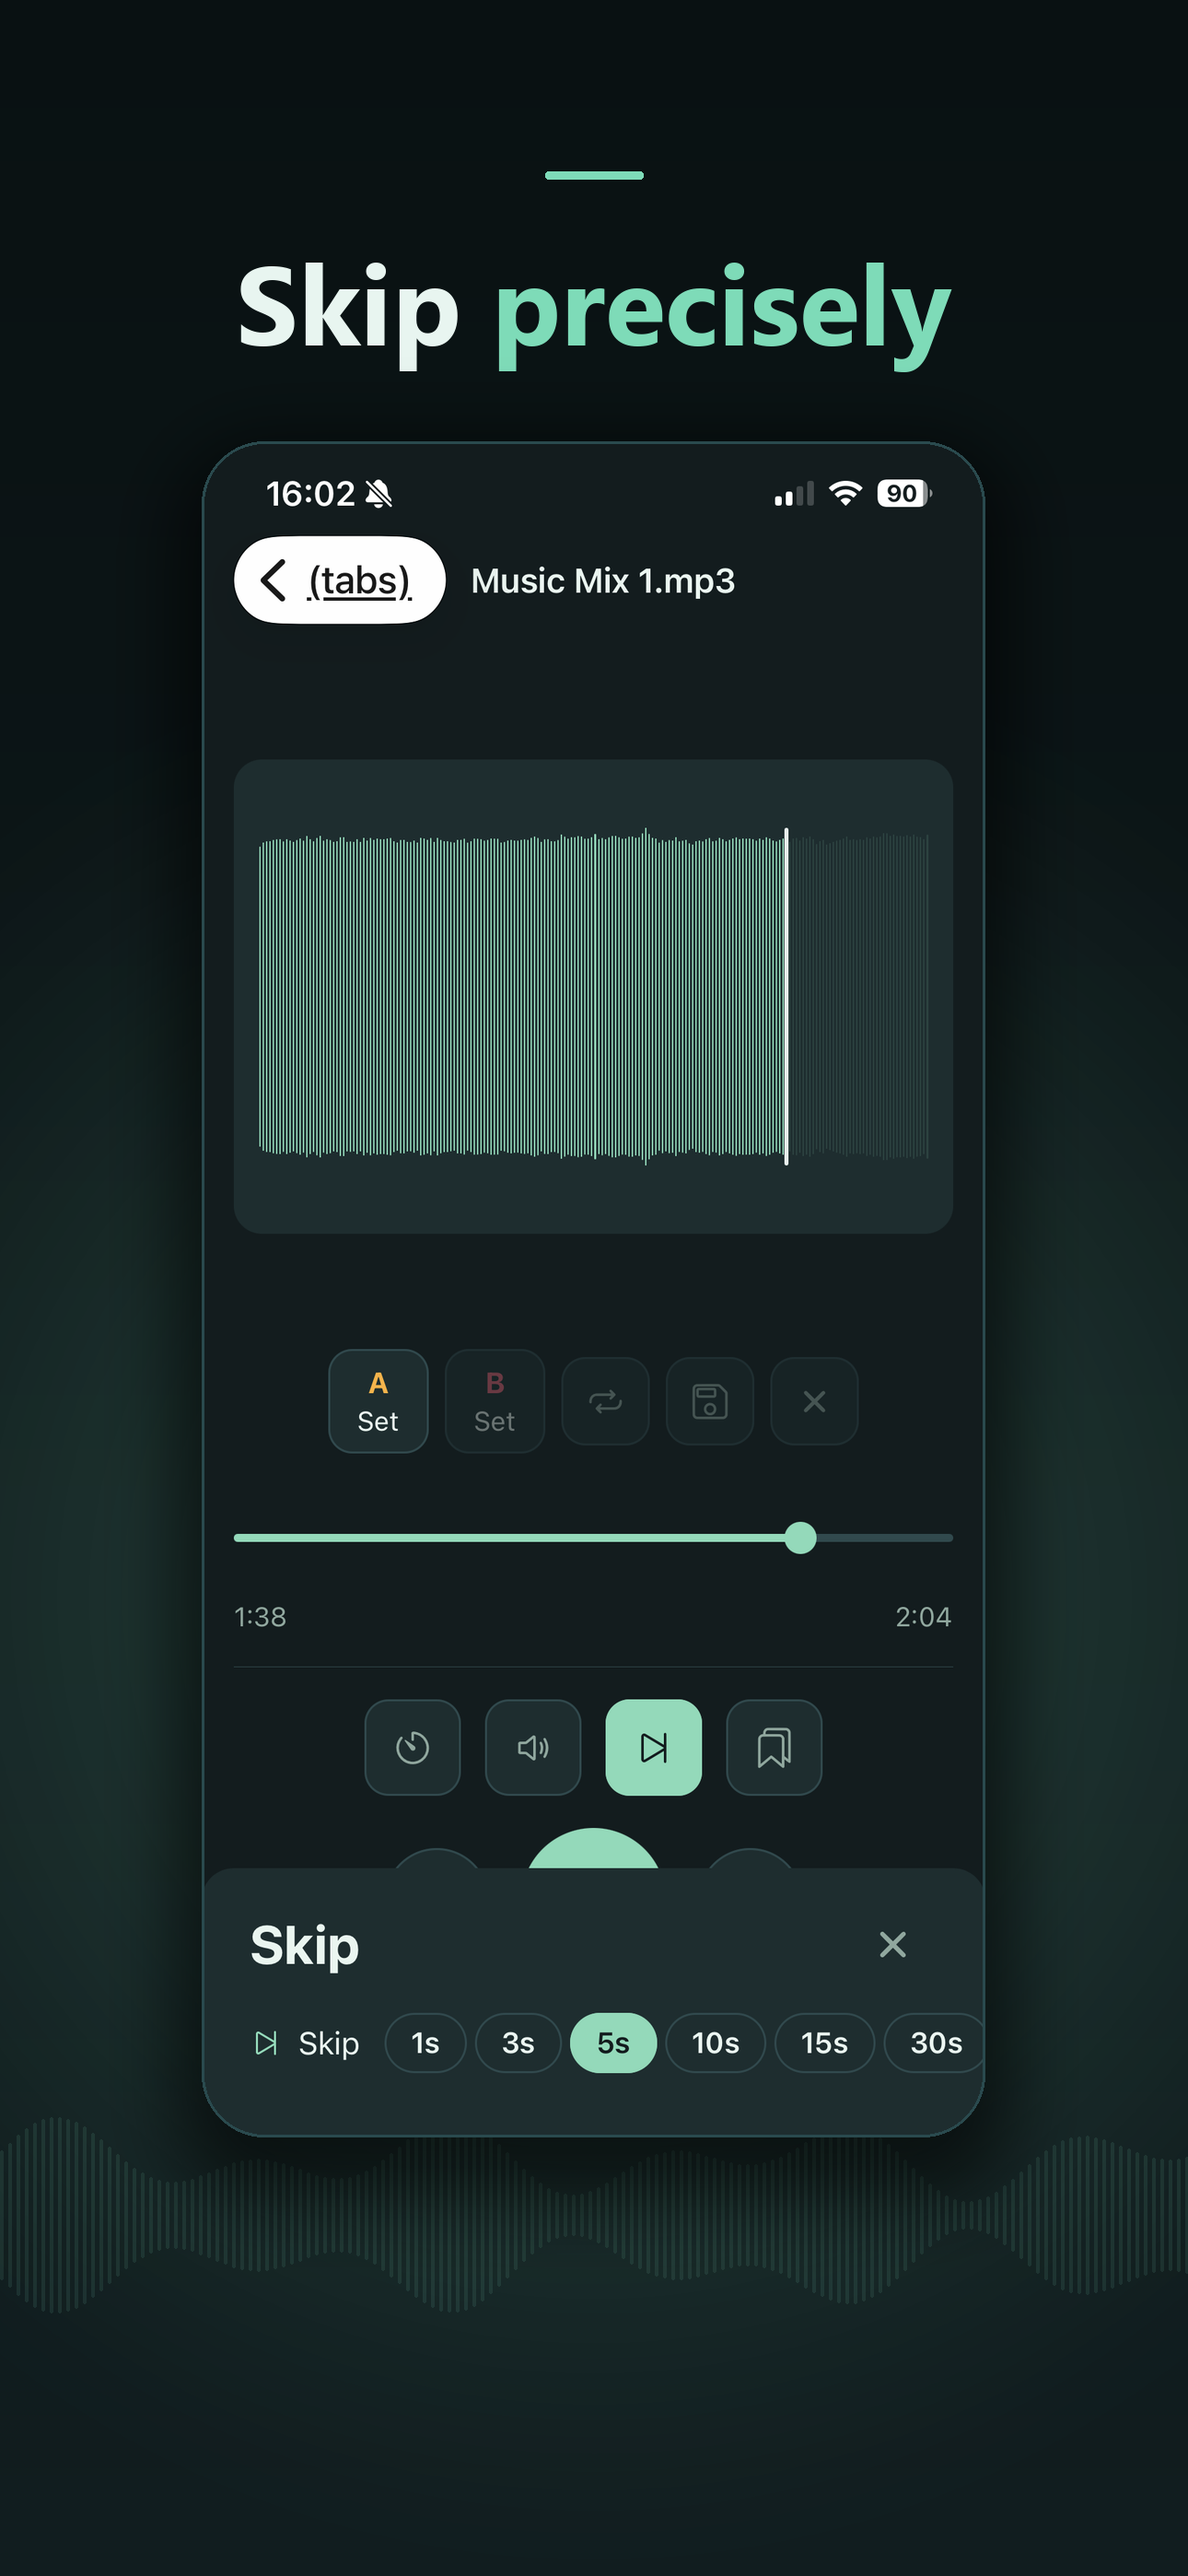
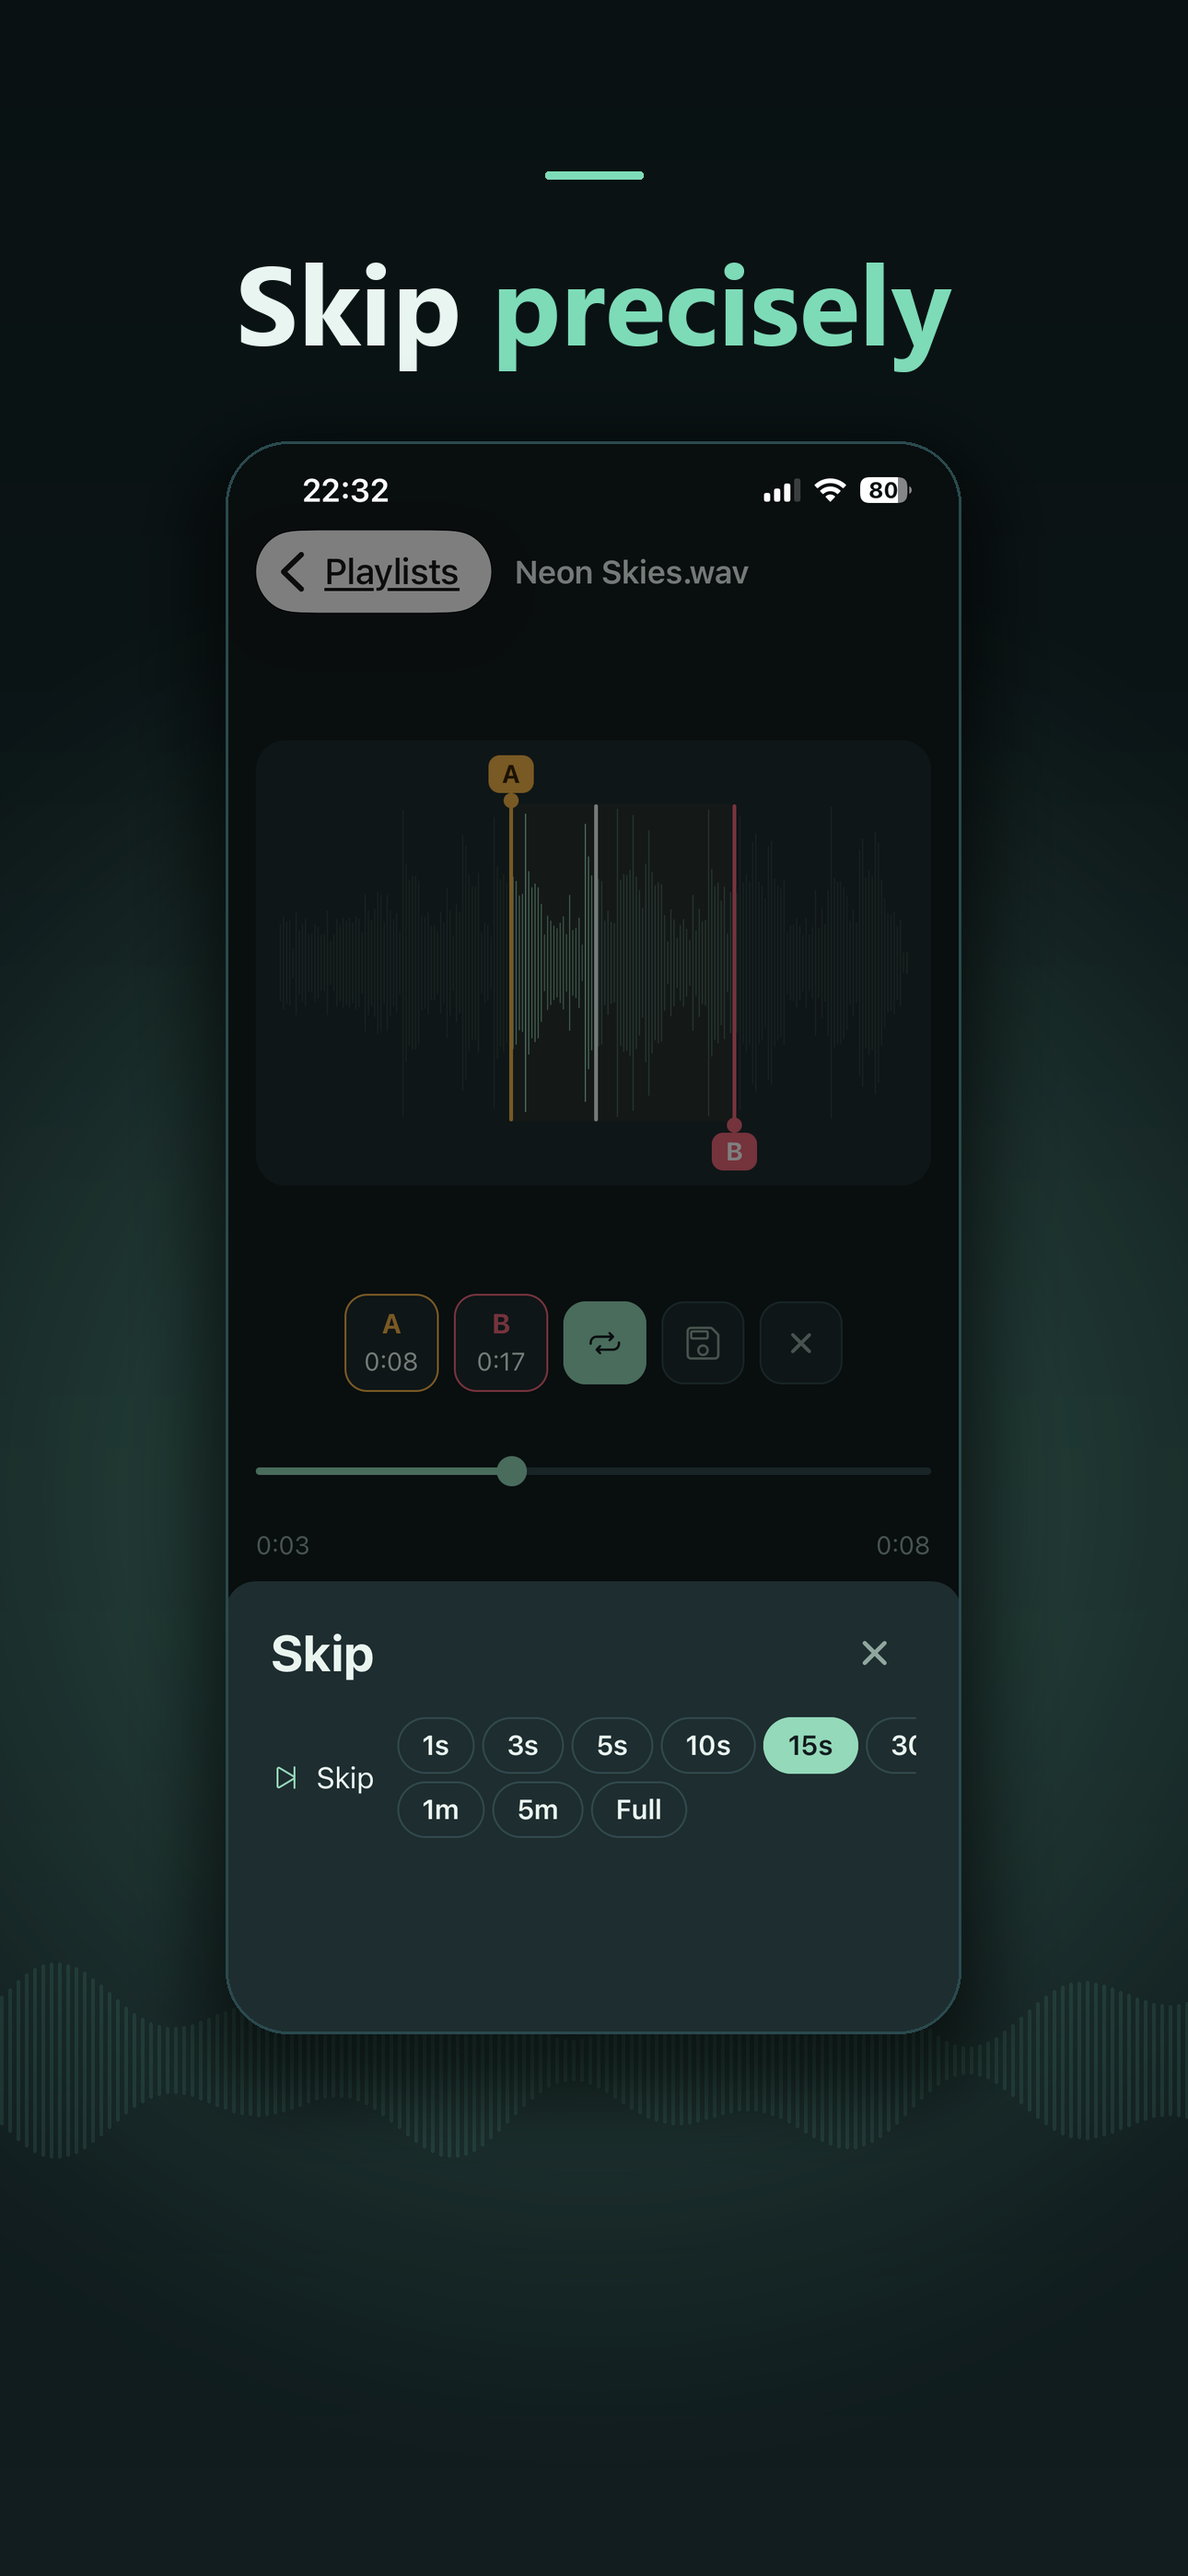
feat(store): refresh screenshots/creative, reconcile iOS app name
- Regenerate App Store + Play screenshots from new captures covering
  segments, skip, count-in, and favourites (was 5 slides, now 6)
- Add Play feature graphic and general marketing banners composed with
  the real logo mark and a device-framed screenshot
- Set iOS app name to "Refrain: Audio Looper" to match App Store
  Connect (was "Refrain"); reconcile the same in QUESTIONNAIRES.md and
  PUBLISHING.md, and add the SKU field
- Drop "looper" from iOS keywords (redundant with the new app name)
  in favour of "metronome"

diff --git a/fastlane/creative/render.py b/fastlane/creative/render.py
@@ -44,6 +44,7 @@ MARKER_B = (255, 93, 119)  # #ff5d77
 HERE = os.path.dirname(os.path.abspath(__file__))
 REPO = os.path.abspath(os.path.join(HERE, "..", ".."))
 RAW_DIR = os.path.join(REPO, "assets", "appstore_images")
+ICON_PATH = os.path.join(REPO, "assets", "logo", "png", "icon-transparent.png")
 
 # Raw screenshots mapped to a stable ordering + captions.
 # order is the store slide order (slide 1 is the most-seen image).
@@ -51,29 +52,34 @@ RAW_DIR = os.path.join(REPO, "assets", "appstore_images")
 # kept short so the type stays large and legible at thumbnail size.
 SLIDES = [
     {
-        "id": "1C911F29-884F-484D-A804-598AE9FB9791",
+        "id": "IMG_2203",
         "cap_lead": "Loop any",
         "cap_accent": "section",
     },
     {
-        "id": "5A4B0785-6585-4C6D-9643-BAF16DEE8579",
-        "cap_lead": "Read the",
-        "cap_accent": "waveform",
-    },
-    {
-        "id": "326A485D-52FC-4F05-96B2-C8C874754508",
+        "id": "IMG_2205",
         "cap_lead": "Save your",
         "cap_accent": "loops",
     },
     {
-        "id": "2EC69B2C-7C94-452A-8079-2043D0A0AC36",
+        "id": "IMG_2199",
+        "cap_lead": "Your",
+        "cap_accent": "library",
+    },
+    {
+        "id": "IMG_2208",
         "cap_lead": "Skip",
         "cap_accent": "precisely",
     },
     {
-        "id": "E7CCD6C7-4F5E-47CB-B468-C0767F6214E0",
-        "cap_lead": "Your",
-        "cap_accent": "library",
+        "id": "IMG_2206",
+        "cap_lead": "Count you",
+        "cap_accent": "in",
+    },
+    {
+        "id": "IMG_2198",
+        "cap_lead": "Play your",
+        "cap_accent": "favourites",
     },
 ]
 
@@ -157,7 +163,14 @@ REF_W, REF_H = 1320, 2868
 
 
 def load_screen(slide_id: str) -> Image.Image:
-    return Image.open(os.path.join(RAW_DIR, slide_id + ".png")).convert("RGB")
+    path = os.path.join(RAW_DIR, slide_id + ".png")
+    if not os.path.exists(path):
+        path = os.path.join(RAW_DIR, slide_id + ".PNG")
+    return Image.open(path).convert("RGB")
+
+
+def load_icon() -> Image.Image:
+    return Image.open(ICON_PATH).convert("RGBA")
 
 
 def compose(slide, size, variant="A", show_status_caption=True) -> Image.Image:
@@ -323,33 +336,159 @@ def cmd_full(variant="A"):
     make_feature_graphic()
 
 
-def make_feature_graphic():
-    w, h = 1024, 500
-    img = vertical_gradient((w, h), BG_DEEP, BG).convert("RGBA")
-    glow = radial_glow((w, h), (int(w * 0.72), int(h * 0.5)), int(w * 0.5), ACCENT, 70)
-    img = Image.alpha_composite(img, glow)
-    d = ImageDraw.Draw(img)
-    # waveform strip
-    baseline = int(h * 0.5)
-    x = 40
+def ambient_waveform_layer(size, baseline_frac, alpha) -> Image.Image:
+    """Full-width faint waveform texture, used as landscape-banner backdrop."""
+    w, h = size
+    s = h / 500
+    layer = Image.new("RGBA", (w, h), (0, 0, 0, 0))
+    d = ImageDraw.Draw(layer)
+    baseline = int(h * baseline_frac)
+    bar_w = max(2, int(4 * s))
+    gap = max(3, int(7 * s))
+    x = int(-10 * s)
     i = 0
-    while x < w - 40:
-        amp = 0.5 + 0.5 * math.sin(i * 0.25) * math.sin(i * 0.06 + 1.0)
-        bar_h = int(20 + amp * 150)
-        col = ACCENT if 6 < i < 22 else BORDER
-        d.rounded_rectangle([x, baseline - bar_h // 2, x + 5, baseline + bar_h // 2], radius=2, fill=col + (200,))
-        x += 12
+    while x < w:
+        amp = 0.5 + 0.5 * math.sin(i * 0.20) * math.sin(i * 0.057 + 1.3)
+        bar_h = int((16 + amp * 110) * s)
+        d.rounded_rectangle(
+            [x, baseline - bar_h // 2, x + bar_w, baseline + bar_h // 2],
+            radius=bar_w // 2,
+            fill=ACCENT + (alpha,),
+        )
+        x += bar_w + gap
         i += 1
-    # wordmark
-    f_name = font("segoeuib.ttf", 118)
-    f_tag = font("segoeui.ttf", 40)
-    d.text((70, 150), "Refrain", font=f_name, fill=TEXT_PRIMARY)
-    d.text((74, 300), "Loop. Practice. Repeat.", font=f_tag, fill=ACCENT)
+    return layer
+
+
+def compose_banner(size, slide_id, tagline, headline="Refrain") -> Image.Image:
+    """Premium landscape banner: dark gradient + glow + ambient waveform,
+    a device-framed real screenshot on the right, and a soft surface card
+    holding the icon/wordmark/tagline on the left. Used for the Play feature
+    graphic and general marketing banners so they all read as one system.
+    """
+    w, h = size
+    s = h / 500  # reference scale off the 1024x500 feature-graphic design
+
+    img = vertical_gradient((w, h), BG_DEEP, BG).convert("RGBA")
+    img = Image.alpha_composite(img, ambient_waveform_layer(size, 0.82, 22))
+
+    # --- device frame with the real screen, anchored to the right ---
+    screen = load_screen(slide_id)
+    src_ratio = screen.width / screen.height
+
+    dev_h = int(h * 0.94)
+    dev_w = int(dev_h * src_ratio)
+    margin = int(50 * s)
+    dev_x = w - margin - dev_w
+    dev_y = (h - dev_h) // 2
+    corner = int(46 * s)
+
+    glow = radial_glow(
+        (w, h),
+        center=(dev_x + dev_w // 2, h // 2),
+        radius=int(dev_w * 1.9),
+        color=ACCENT,
+        max_alpha=75,
+    )
+    img = Image.alpha_composite(img, glow)
+
+    shadow = Image.new("RGBA", (w, h), (0, 0, 0, 0))
+    sd = ImageDraw.Draw(shadow)
+    pad = int(22 * s)
+    sd.rounded_rectangle(
+        [dev_x - pad, dev_y - pad + int(18 * s), dev_x + dev_w + pad, dev_y + dev_h + pad + int(24 * s)],
+        radius=corner + pad,
+        fill=(0, 0, 0, 150),
+    )
+    shadow = shadow.filter(ImageFilter.GaussianBlur(int(24 * s)))
+    img = Image.alpha_composite(img, shadow)
+
+    screen_scaled = screen.resize((dev_w, dev_h), Image.LANCZOS).convert("RGBA")
+    mask = rounded_mask((dev_w, dev_h), corner)
+    device = Image.new("RGBA", (dev_w, dev_h), (0, 0, 0, 0))
+    device.paste(screen_scaled, (0, 0), mask)
+    img.paste(device, (dev_x, dev_y), device)
+
+    bdraw = ImageDraw.Draw(img)
+    bdraw.rounded_rectangle(
+        [dev_x, dev_y, dev_x + dev_w - 1, dev_y + dev_h - 1],
+        radius=corner,
+        outline=BORDER + (255,),
+        width=max(2, int(3 * s)),
+    )
+
+    # --- soft surface card behind the wordmark, so the text has a "back" ---
+    icon_size = int(90 * s)
+    f_name = font("segoeuib.ttf", int(64 * s))
+    f_tag = font("segoeui.ttf", int(27 * s))
+
+    card_x0 = int(48 * s)
+    card_y0 = int(48 * s)
+    card_w = min(int(560 * s), dev_x - card_x0 - int(30 * s))
+    card_w = max(card_w, int(340 * s))
+    card_h = h - int(96 * s)
+    card_radius = int(28 * s)
+
+    card = Image.new("RGBA", (w, h), (0, 0, 0, 0))
+    cd = ImageDraw.Draw(card)
+    cd.rounded_rectangle(
+        [card_x0, card_y0, card_x0 + card_w, card_y0 + card_h],
+        radius=card_radius,
+        fill=SURFACE + (140,),
+        outline=BORDER + (200,),
+        width=max(1, int(2 * s)),
+    )
+    img = Image.alpha_composite(img, card)
+
+    d = ImageDraw.Draw(img)
+    inner_x = card_x0 + int(36 * s)
+    icon = load_icon().resize((icon_size, icon_size), Image.LANCZOS)
+    icon_y = card_y0 + int(36 * s)
+    img.paste(icon, (inner_x, icon_y), icon)
+
+    text_x = inner_x + icon_size + int(20 * s)
+    text_y = icon_y + int(icon_size * 0.5) - int(f_name.size * 0.42)
+    d.text((text_x, text_y), headline, font=f_name, fill=TEXT_PRIMARY)
+
+    tag_y = icon_y + icon_size + int(30 * s)
+    max_tag_w = card_x0 + card_w - int(36 * s) - inner_x
+    words = tagline.split(" ")
+    lines, cur = [], ""
+    for word in words:
+        trial = (cur + " " + word).strip()
+        if measure(d, trial, f_tag)[0] <= max_tag_w or not cur:
+            cur = trial
+        else:
+            lines.append(cur)
+            cur = word
+    if cur:
+        lines.append(cur)
+    for line in lines:
+        d.text((inner_x, tag_y), line, font=f_tag, fill=ACCENT)
+        tag_y += int(f_tag.size * 1.3)
+
+    return img.convert("RGB")
+
+
+def make_feature_graphic():
+    img = compose_banner((1024, 500), "IMG_2203", "Loop. Practice. Repeat.")
     out = os.path.join(REPO, "fastlane", "metadata", "android", "en-US", "images", "featureGraphic")
-    os.makedirs(out, exist_ok=True)
     p = os.path.join(out, "featureGraphic.png")
-    img.convert("RGB").save(p, "PNG")
-    print(f"  wrote {os.path.relpath(p, REPO)}  {w}x{h}")
+    save_exact(img, p, (1024, 500))
+
+
+BANNERS = [
+    # (relative output path under assets/marketing/, size, tagline)
+    ("social-banner.png", (1200, 630), "A focused A/B loop player for anyone who learns by repetition."),
+    ("hero-banner.png", (1600, 500), "Loop. Practice. Repeat."),
+]
+
+
+def cmd_banners():
+    out_dir = os.path.join(REPO, "assets", "marketing")
+    for name, size, tagline in BANNERS:
+        img = compose_banner(size, "IMG_2203", tagline)
+        save_exact(img, os.path.join(out_dir, name), size)
 
 
 if __name__ == "__main__":
@@ -359,5 +498,8 @@ if __name__ == "__main__":
     elif cmd == "full":
         variant = sys.argv[2] if len(sys.argv) > 2 else "A"
         cmd_full(variant)
+        cmd_banners()
+    elif cmd == "banners":
+        cmd_banners()
     else:
-        print("usage: render.py [mockups|full [A|B]]")
+        print("usage: render.py [mockups|full [A|B]|banners]")

diff --git a/fastlane/QUESTIONNAIRES.md b/fastlane/QUESTIONNAIRES.md
@@ -38,12 +38,13 @@ first release, with the answer for Refrain and the reason behind it.
 
 | Field                    | Value                                          |
 | ------------------------ | ---------------------------------------------- |
-| App name (iOS)           | Refrain                                        |
+| App name (iOS)           | Refrain: Audio Looper                          |
 | App title (Play)         | Refrain: A/B Loop Player                       |
 | Bundle ID / package      | `com.subvertingcomplexity.refrain`             |
 | Apple Team ID            | `JTUZQBUGVY` — SUBVERTING COMPLEXITY (PTY) LTD |
 | App Store Connect app ID | `6780801245`                                   |
 | Apple ID (account)       | `adrienne.bosch7@icloud.com`                   |
+| SKU                      | `Refrain`                                      |
 | Marketing version        | `1.0.0` (`expo.version` in `app.json`)         |
 | Build number             | managed remotely by EAS, auto-incremented      |
 | Publisher / copyright    | 2026 Subverting Complexity                     |

diff --git a/fastlane/PUBLISHING.md b/fastlane/PUBLISHING.md
@@ -54,6 +54,11 @@ outstanding submission blockers.
    is a placeholder — set a real number Apple review can reach.
 3. **Categories**: `metadata/primary_category.txt` = `MZGenre.Music`,
    secondary `MZGenre.Education`. Adjust if you prefer.
+4. **App Store name**: the canonical iOS display name is `Refrain: Audio
+   Looper` (`metadata/en-US/name.txt`), matching App Store Connect. The Play
+   listing title is `Refrain: A/B Loop Player`
+   (`metadata/android/en-US/title.txt`) — the two stores intentionally carry
+   different titles; don't reconcile them to match each other.
 
 ## Credentials (never commit)
 
